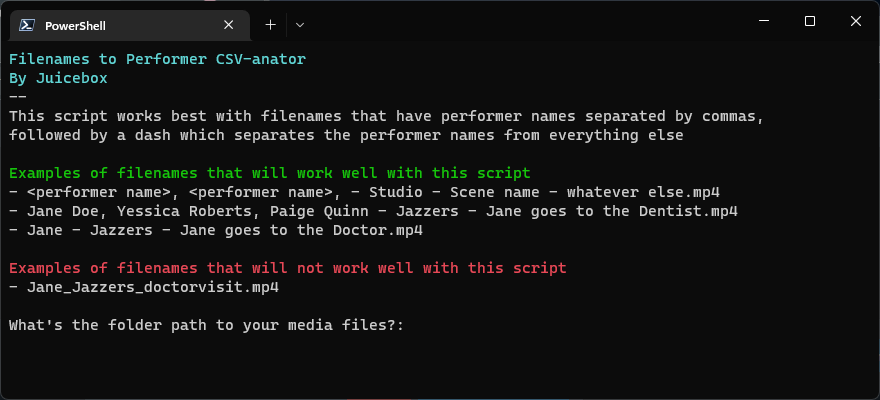
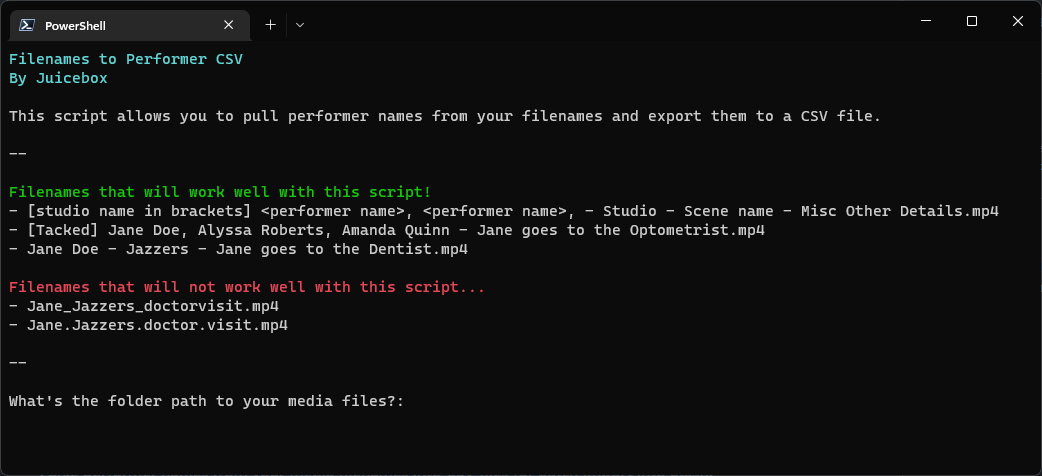
Performance, improved documentation, dedupe
Script now also handles bracketed studios, added dedupe as well

diff --git a/README.md b/README.md
@@ -18,6 +18,6 @@ This script (`FilenamePerformersToCSV.js`) exports performer names into a CSV fi
 - Paste the contents of your clipboard and click **Add New Performers**
  
 ## Additional Details 
-- Your files MUST align with what this script is expecting. Aka, the performer name followed by a dash indicating there are no more performer names. 
+- If there is a well known/well defined filename pattern not yet supported by this script, open an issue and let me know! 
 
 Hope this helps someone!
